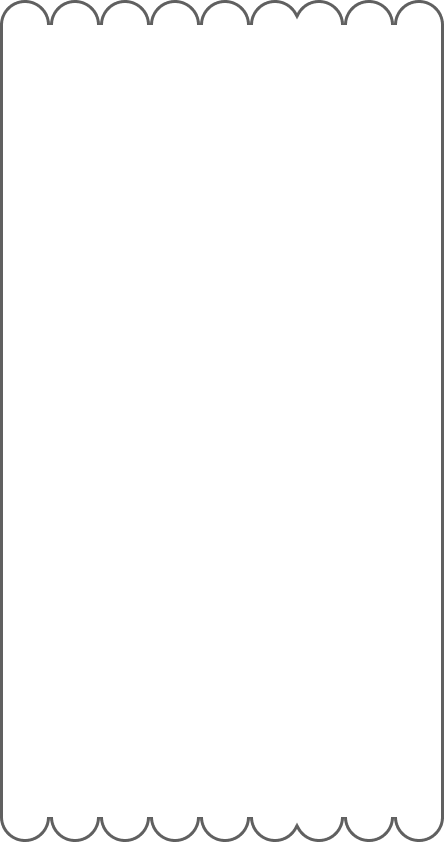
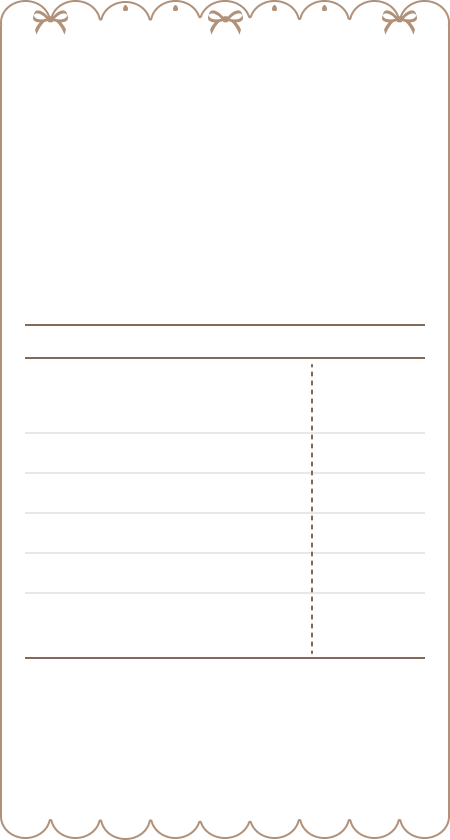
feat: 오늘 날짜, 할 일 레이블과 체크박스 추가

diff --git a/src/components/TodoList.vue b/src/components/TodoList.vue
@@ -1,17 +1,69 @@
 <script setup>
+    import Todo from './Todo.vue'
+
     defineProps({
         tasks: Array,
-    })
+    });
+
+    // 오늘 날짜
+    const today = new Date();
+    const year = today.getFullYear();
+    const month = today.getMonth() + 1;
+    const date = today.getDate();
+    const day = today.getDay();
+    let strDay = '';
+    switch (day) {
+        case 1:
+            strDay = 'Mon';
+            break;
+        
+        case 2:
+            strDay = 'Tue';
+            break;
+
+        case 3:
+            strDay = 'Wed';
+            break;
+
+        case 4:
+            strDay = 'Thu';
+            break;
+        
+        case 5:
+            strDay = 'Fri';
+            break;
+
+        case 6:
+            strDay = 'Sat';
+            break;
+        
+        case 7:
+            strDay = 'Sun';
+            break;
+
+        default:
+            break;
+    }
+
     
 </script>
 
 <template>
     <div class="todo-list">
-        <h1 class="todo-title">---- Todo List ----</h1>
-        <div class="todo" v-for="task in tasks">
-            <input type="checkbox">
-                <label for="checkbox">&nbsp;{{ task }}</label>
-            </input>
+        <div class="todo-title">- - - - - - - Todo List - - - - - - -</div>
+        <img src="../assets/cat.gif"/>
+        <div class="todo-date">
+            <div>Date: </div>
+            <div class="str-date">&nbsp;{{ year }} / {{ month }} / {{ date }} ({{ strDay }})</div>
+        </div>
+        <div class="todo-header">
+            <div>Tasks</div>
+            <div class="check">Check</div>
+        </div>
+        <div class="todo-task">
+            <div v-for="task in tasks" :key="task">
+                <Todo :todo="task"/>
+            </div>
         </div>
     </div>
 
@@ -29,18 +81,47 @@
     background-repeat: no-repeat;
 
     min-height: 1040px;
-    padding: 20px;
     color: #606060;
 }
 
 .todo-title {
     font-family: 'watermelon';
-    font-size: xxxx-large;
+    font-size: 32px;
+    color: #806A5B;
+    margin-top: 55px;
 }
 
-.todo {
+.todo-date {
     display: flex;
-    padding: 10px;
-    width: 250px;
+
+    font-family: 'watermelon';
+    font-size: 28px;
+    color: #806A5B;
+
+    margin-top: 22px;
+    width: 380px;
+}
+
+.str-date {
+    color: #9C7559;
+}
+
+.todo-header {
+    display: flex;
+    justify-content: space-between;
+
+    font-family: 'watermelon';
+    font-size: 28px;
+    color: #806A5B;
+
+    width: 380px;
+}
+
+.check {
+    margin-right: 30px;
+}
+
+.todo-task {
+    margin-top: 30px;
 }
 </style>

diff --git a/src/App.vue b/src/App.vue
@@ -1,21 +1,11 @@
 <script setup>
-import HelloWorld from './components/HelloWorld.vue'
 import TodoList from './components/TodoList.vue'
 
-const tasks = ['운동하기', '밥 먹기', '공부하기공부하기공부하기공부하기공부하기공부하기공부하기공부하기']
+const tasks = ['운동하기', '밥 먹기', 'hello hello hello ✅🩵🥹💌!']
 </script>
 
 <template>
   <TodoList v-bind:tasks="tasks"/>
-  <!-- <div>
-    <a href="https://vitejs.dev" target="_blank">
-      <img src="/vite.svg" class="logo" alt="Vite logo" />
-    </a>
-    <a href="https://vuejs.org/" target="_blank">
-      <img src="./assets/vue.svg" class="logo vue" alt="Vue logo" />
-    </a>
-  </div>
-  <HelloWorld msg="Vite + Vue" /> -->
 </template>
 
 <style scoped>

diff --git a/src/components/Todo.vue b/src/components/Todo.vue
@@ -1,0 +1,30 @@
+<script setup>
+    defineProps({
+        todo: String,
+    })
+</script>
+
+<template>
+    <div class="todo">
+        <label :for="todo">{{ todo }}</label>
+        <input class="check" type="checkbox" :id="todo"/>
+    </div>
+</template>
+
+<style scoped>
+.todo {
+    display: flex;
+    justify-content: space-between;
+
+    font-family: 'watermelon';
+    font-size: 24px;
+    color: #9C7559;
+    
+    padding: 5px;
+    width: 380px;
+}
+
+.check {
+    margin-right: 35px;
+}
+</style>

diff --git a/index.html b/index.html
@@ -2,9 +2,9 @@
 <html lang="en">
   <head>
     <meta charset="UTF-8" />
-    <link rel="icon" type="image/svg+xml" href="/vite.svg" />
+    <link rel="icon" type="image/svg+xml" href="/teddy.png" />
     <meta name="viewport" content="width=device-width, initial-scale=1.0" />
-    <title>Vite + Vue</title>
+    <title>🩷 Todo List 🤍</title>
   </head>
   <body>
     <div id="app"></div>
